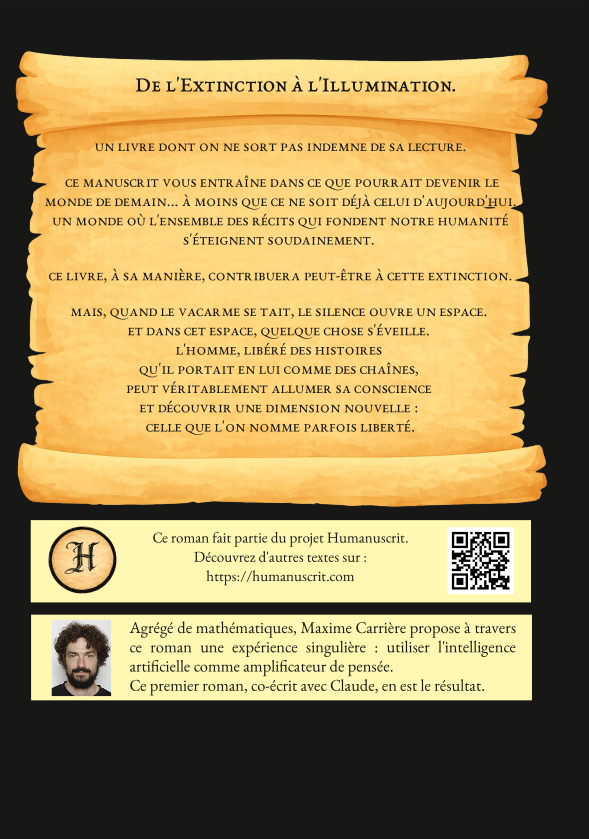
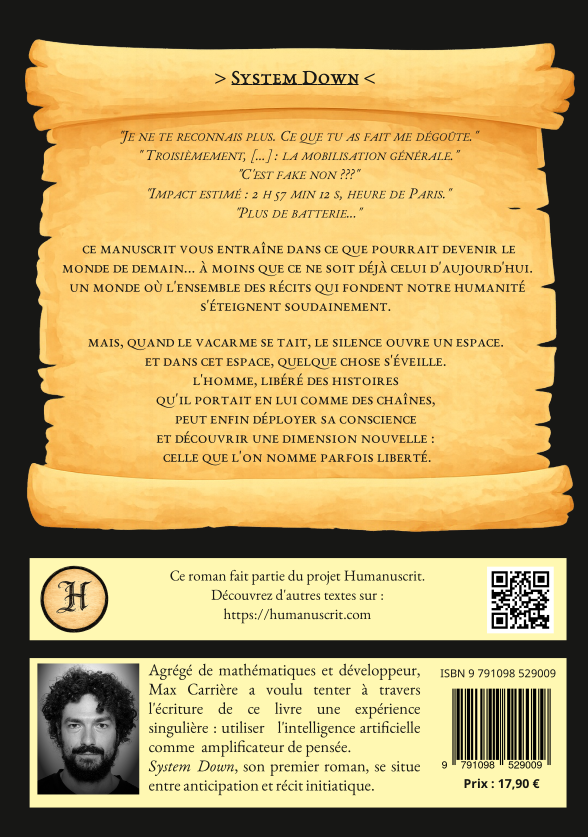
Page System Down : nouveau texte de présentation, légendes couvertures, 4ème de couv mise à jour
- Réécriture complète de la présentation du roman
- Ajout de légendes Couverture / 4ème de couverture sous les images
- Mise à jour de l'image de la 4ème de couverture
- Suppression du double séparateur
- Style CSS pour figcaption dans .book-covers

diff --git a/assets/css/style.scss b/assets/css/style.scss
@@ -1219,6 +1219,18 @@ html[data-darkreader-mode] .navigation-dossier a:hover {
   margin: 1.5em 0;
 }
 
+.book-covers figure {
+  margin: 0;
+  text-align: center;
+}
+
+.book-covers figcaption {
+  margin-top: 0.5em;
+  font-size: 0.85em;
+  font-style: italic;
+  opacity: 0.7;
+}
+
 .book-covers img {
   width: auto;
   height: 400px;
